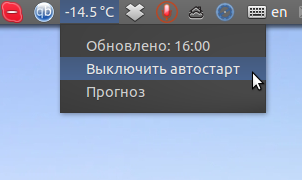
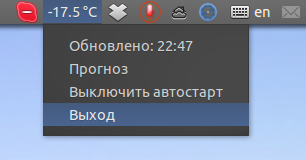
версия 0.5

diff --git a/index.html b/index.html
@@ -36,7 +36,7 @@
         <span class="blc"></span><span class="trc"></span>
         </div>
         <article class="markdown-body">
-          <h1>Omsk Weather 0.4.1</h1>
+          <h1>Omsk Weather 0.5</h1>
 
 <p><img src="images/screen.png" alt="screenshot"></p>
 
@@ -53,6 +53,7 @@
 
 <h2>Руководство</h2>
 
+<h3>Установка через консоль</h3>
 <p>Для установки выполните в консоли (<code>Ctrl+Alt+T</code>) следующие
   команды (можно скопировать):</p>
 
@@ -61,6 +62,7 @@
   sudo apt-get install omweather
 </code></pre>
 
+<h3>Установка через центр приложений</h3>
 <p>Либо через центр приложений:</p>
 
 <p><img src="images/step0.png" alt="screenshot"/></p>
@@ -73,6 +75,7 @@
 <p>Либо ждать пока это произойдёт в системном порядке, после чего снова
 поискать приложение в Центре.</p>
 
+<h3>Использование</h3>
 <p>Запускается через даш.</p>
 
 <p>При клике на темепературу в выпадающем меню можно посмотреть время последнего
@@ -86,6 +89,12 @@
 <p>Файл <code>~/.config/omweather.cfg</code> содержит переопределяемые переменные виджета (см. комментарии в файле).</p>
 
 <h2>История изменений</h2>
+
+<h3>0.5</h3>
+
+<ul>
+  <li>Добавлено меню выхода.</li>
+</ul>
 
 <h3>0.4.1</h3>
 
